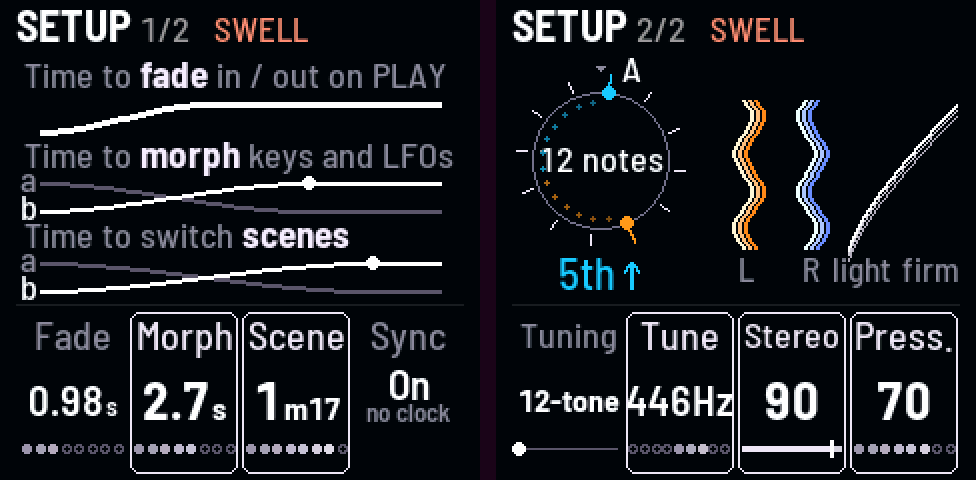
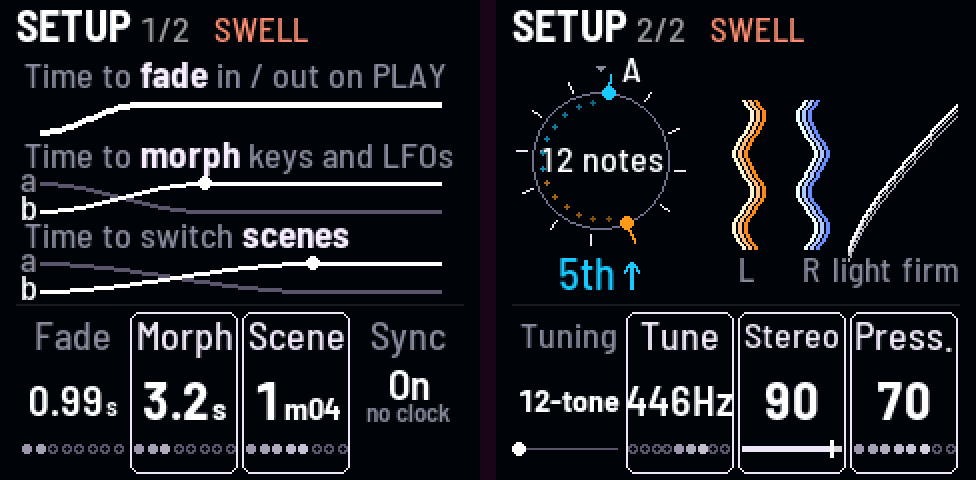
The time knobs on a power curve: Fade x^3, Morph x^2.5, Scene time x^4, 1 s near a quarter of each (Evan, 2026-11-07: 40 % of the dial went to under a second); saved times converted, the defaults the same times

diff --git a/host/drone_render.c b/host/drone_render.c
@@ -24,59 +24,59 @@ typedef struct {
 
 static const scene_t SCENES[] = {
     {"01-two-drones", "the two drones (D2 and A2, each with its partner), their filters opening, the fade out",
-     {{0, E_SET, P_FADE, 60}, {0, E_PLAY, 1}, {0, E_RAMP, V1(GP_CUTOFF), 350, 700, 12},
+     {{0, E_SET, P_FADE, 39}, {0, E_PLAY, 1}, {0, E_RAMP, V1(GP_CUTOFF), 350, 700, 12},
       {0, E_RAMP, V2(GP_CUTOFF), 300, 650, 12}, {14, E_PLAY, 0}, {20, E_END}}},
     {"02-partners-off", "the same with both partners off: two plain oscillators and their subs",
-     {{0, E_SET, P_FADE, 60}, {0, E_SET, V1(GP_PARTNER), 0}, {0, E_SET, V2(GP_PARTNER), 0}, {0, E_PLAY, 1},
+     {{0, E_SET, P_FADE, 39}, {0, E_SET, V1(GP_PARTNER), 0}, {0, E_SET, V2(GP_PARTNER), 0}, {0, E_PLAY, 1},
       {0, E_RAMP, V1(GP_CUTOFF), 350, 700, 12}, {0, E_RAMP, V2(GP_CUTOFF), 300, 650, 12}, {14, E_PLAY, 0}, {20, E_END}}},
     {"03-ultra-analog", "the DS-2 patch: drone II an octave up, slightly detuned, slow LFO; then drone I -> drone II cutoff",
-     {{0, E_SET, P_FADE, 60}, {0, E_SET, V2(GP_PITCH), 5012}, {0, E_SET, V2(GP_WAVE), 67},
+     {{0, E_SET, P_FADE, 39}, {0, E_SET, V2(GP_PITCH), 5012}, {0, E_SET, V2(GP_WAVE), 67},
       {0, E_SET, V1(GP_PARTNER), 0}, {0, E_SET, V2(GP_PARTNER), 0}, {0, E_SET, V2(GP_CUTOFF), 380},
       {0, E_SET, V2(GP_RESO), 450}, {0, E_SET, V2(GP_DRIVE), 60}, {0, E_SET, P_LFO_RATE, 15},
       {0, E_SET, V1(GP_FLFO_DEPTH), 40}, {0, E_SET, V2(GP_FLFO_DEPTH), 35}, {0, E_PLAY, 1},
       {8, E_SET, P_XMOD, 1}, {8, E_RAMP, P_XMOD_AMT, 0, 70, 6}, {20, E_PLAY, 0}, {23, E_END}}},
     {"04-hard-sync", "hard sync: drone II synced to drone I, its pitch swept up and back (the classic sync sweep)",
-     {{0, E_SOLO, 1}, {0, E_SET, P_FADE, 30}, {0, E_SET, V2(GP_PARTNER), 0}, {0, E_SET, V2(GP_WAVE), 67},
+     {{0, E_SOLO, 1}, {0, E_SET, P_FADE, 18}, {0, E_SET, V2(GP_PARTNER), 0}, {0, E_SET, V2(GP_WAVE), 67},
       {0, E_SET, V2(GP_MIX), 0}, {0, E_SET, V2(GP_CUTOFF), 800}, {0, E_SET, P_SYNC, 1}, {0, E_PLAY, 1},
       {1, E_RAMP, V2(GP_PITCH), 4500, 6900, 7}, {8, E_RAMP, V2(GP_PITCH), 6900, 4500, 5}, {14, E_PLAY, 0},
       {15, E_END}}},
     {"05-pitch-link", "pitch link: drone II a fifth above drone I, following it as drone I moves",
-     {{0, E_SET, P_FADE, 40}, {0, E_SET, V2(GP_PITCH), 4500}, {0, E_SET, P_PLINK_OFF, 700}, {0, E_SET, P_PLINK, 1},
+     {{0, E_SET, P_FADE, 24}, {0, E_SET, V2(GP_PITCH), 4500}, {0, E_SET, P_PLINK_OFF, 700}, {0, E_SET, P_PLINK, 1},
       {0, E_PLAY, 1}, {3, E_RAMP, V1(GP_PITCH), 3800, 4300, 5}, {10, E_RAMP, V1(GP_PITCH), 4300, 3600, 4},
       {16, E_PLAY, 0}, {18, E_END}}},
     {"06-resonance", "drone I alone, resonance near the top: low-pass swept up and down, then high-pass",
-     {{0, E_SOLO, 0}, {0, E_SET, P_FADE, 30}, {0, E_SET, V1(GP_PARTNER), 0}, {0, E_SET, V1(GP_RESO), 950},
+     {{0, E_SOLO, 0}, {0, E_SET, P_FADE, 18}, {0, E_SET, V1(GP_PARTNER), 0}, {0, E_SET, V1(GP_RESO), 950},
       {0, E_SET, V1(GP_DRIVE), 50}, {0, E_PLAY, 1}, {0, E_RAMP, V1(GP_CUTOFF), 100, 900, 7},
       {7, E_RAMP, V1(GP_CUTOFF), 900, 100, 7}, {14, E_SET, V1(GP_MODE), DR_HP},
       {14, E_RAMP, V1(GP_CUTOFF), 100, 800, 5}, {19, E_PLAY, 0}, {21, E_END}}},
     {"07-self-oscillation", "drone I alone, resonance at the top, low cutoff: the filter sings its own tone",
-     {{0, E_SOLO, 0}, {0, E_SET, P_FADE, 30}, {0, E_SET, V1(GP_PARTNER), 0}, {0, E_SET, V1(GP_RESO), 1000},
+     {{0, E_SOLO, 0}, {0, E_SET, P_FADE, 18}, {0, E_SET, V1(GP_PARTNER), 0}, {0, E_SET, V1(GP_RESO), 1000},
       {0, E_SET, V1(GP_WAVE), 33}, {0, E_SET, V1(GP_MIX), 0}, {0, E_SET, V1(GP_DRIVE), 0}, {0, E_PLAY, 1},
       {0, E_RAMP, V1(GP_CUTOFF), 450, 750, 10}, {10, E_PLAY, 0}, {12, E_END}}},
     {"08-pulse-and-sub", "drone I alone: a square whose width is swept by hand, OSC MIX half way to the sub-sub",
-     {{0, E_SOLO, 0}, {0, E_SET, P_FADE, 30}, {0, E_SET, V1(GP_PARTNER), 0}, {0, E_SET, V1(GP_WAVE), 100},
+     {{0, E_SOLO, 0}, {0, E_SET, P_FADE, 18}, {0, E_SET, V1(GP_PARTNER), 0}, {0, E_SET, V1(GP_WAVE), 100},
       {0, E_SET, V1(GP_MIX), 50}, {0, E_SET, V1(GP_SUBOCT), 2}, {0, E_SET, V1(GP_CUTOFF), 650}, {0, E_PLAY, 1},
       {0, E_RAMP, V1(GP_WIDTH), 0, 95, 6}, {6, E_RAMP, V1(GP_WIDTH), 95, 0, 6}, {12, E_PLAY, 0}, {14, E_END}}},
     {"09-x-wave", "drone I alone, filter open: the X-WAVE swept by hand, sine -> triangle -> saw -> square and back",
-     {{0, E_SOLO, 0}, {0, E_SET, P_FADE, 20}, {0, E_SET, V1(GP_PARTNER), 0}, {0, E_SET, V1(GP_MIX), 0},
+     {{0, E_SOLO, 0}, {0, E_SET, P_FADE, 14}, {0, E_SET, V1(GP_PARTNER), 0}, {0, E_SET, V1(GP_MIX), 0},
       {0, E_SET, V1(GP_CUTOFF), 850}, {0, E_SET, V1(GP_RESO), 0}, {0, E_SET, V1(GP_PITCH), 4500},
       {0, E_SET, V1(GP_WAVE), 0}, {0, E_PLAY, 1}, {1, E_RAMP, V1(GP_WAVE), 0, 100, 8},
       {9, E_RAMP, V1(GP_WAVE), 100, 0, 4}, {13, E_PLAY, 0}, {14, E_END}}},
     {"10-between-notes", "drone II held on A2, drone I swept slowly from A2 to E3, through every cent",
-     {{0, E_SET, P_FADE, 40}, {0, E_SET, V1(GP_PITCH), 4500}, {0, E_SET, V2(GP_PITCH), 4500},
+     {{0, E_SET, P_FADE, 24}, {0, E_SET, V1(GP_PITCH), 4500}, {0, E_SET, V2(GP_PITCH), 4500},
       {0, E_SET, V2(GP_PARTNER), 0}, {0, E_PLAY, 1}, {2, E_RAMP, V1(GP_PITCH), 4500, 5200, 12},
       {16, E_PLAY, 0}, {18, E_END}}},
     {"11-lfo-filters", "both drones breathing: the filter LFOs at a slow rate (~9 s), I and II a quarter apart",
-     {{0, E_SET, P_FADE, 60}, {0, E_SET, P_LFO_RATE, 10}, {0, E_SET, V1(GP_FLFO_DEPTH), 60},
+     {{0, E_SET, P_FADE, 39}, {0, E_SET, P_LFO_RATE, 10}, {0, E_SET, V1(GP_FLFO_DEPTH), 60},
       {0, E_SET, V2(GP_FLFO_DEPTH), -55}, {0, E_SET, V1(GP_RESO), 500}, {0, E_SET, V2(GP_RESO), 500},
       {0, E_PLAY, 1}, {24, E_PLAY, 0}, {27, E_END}}},
     {"12-lfo-x-wave", "drone I alone, its LFO moving the X-WAVE: Wave I triangle, then the 2x exponential",
-     {{0, E_SOLO, 0}, {0, E_SET, P_FADE, 30}, {0, E_SET, V1(GP_PARTNER), 0}, {0, E_SET, V1(GP_MIX), 0},
+     {{0, E_SOLO, 0}, {0, E_SET, P_FADE, 18}, {0, E_SET, V1(GP_PARTNER), 0}, {0, E_SET, V1(GP_MIX), 0},
       {0, E_SET, V1(GP_CUTOFF), 800}, {0, E_SET, V1(GP_WAVE), 50}, {0, E_SET, P_LFO_RATE, 35},
       {0, E_SET, V1(GP_OLFO_DEST), DR_TO_XWAVE}, {0, E_SET, V1(GP_OLFO_DEPTH), 70}, {0, E_PLAY, 1},
       {8, E_SET, P_LFO_W1, 6}, {14, E_PLAY, 0}, {15, E_END}}},
     {"13-lfo-shapes", "drone I alone, its filter on the LFO at ~2 Hz: Wave I's seven shapes, then Wave II's, 2.5 s each",
-     {{0, E_SOLO, 0}, {0, E_SET, P_FADE, 20}, {0, E_SET, V1(GP_PARTNER), 0}, {0, E_SET, V1(GP_RESO), 600},
+     {{0, E_SOLO, 0}, {0, E_SET, P_FADE, 14}, {0, E_SET, V1(GP_PARTNER), 0}, {0, E_SET, V1(GP_RESO), 600},
       {0, E_SET, V1(GP_CUTOFF), 400}, {0, E_SET, V1(GP_FLFO_DEPTH), 70}, {0, E_SET, P_LFO_RATE, 55},
       {0, E_PLAY, 1}, {2.5f, E_SET, P_LFO_W1, 2}, {5, E_SET, P_LFO_W1, 3}, {7.5f, E_SET, P_LFO_W1, 4},
       {10, E_SET, P_LFO_W1, 5}, {12.5f, E_SET, P_LFO_W1, 6}, {15, E_SET, P_LFO_W1, 7},
@@ -84,32 +84,32 @@ static const scene_t SCENES[] = {
       {25, E_SET, P_LFO_W2, 4}, {27.5f, E_SET, P_LFO_W2, 5}, {30, E_SET, P_LFO_W2, 6}, {32.5f, E_SET, P_LFO_W2, 7},
       {35, E_PLAY, 0}, {36, E_END}}},
     {"14-pulse", "the pulse on both drones at 2 a second: a smooth swell, then a hard gate, then swing",
-     {{0, E_SET, P_FADE, 30}, {0, E_SET, P_PULSE, 1}, {0, E_SET, P_PULSE_RATE, 50}, {0, E_SET, P_PULSE_SHAPE, 0},
+     {{0, E_SET, P_FADE, 18}, {0, E_SET, P_PULSE, 1}, {0, E_SET, P_PULSE_RATE, 50}, {0, E_SET, P_PULSE_SHAPE, 0},
       {0, E_PLAY, 1}, {6, E_RAMP, P_PULSE_SHAPE, 0, -100, 4}, {12, E_RAMP, P_PULSE_SWING, 0, 40, 3},
       {18, E_PLAY, 0}, {19, E_END}}},
     {"15-delay", "the delay: dark repeats under the pulse, then the LFO warbling its time, then Repeats up to runaway",
-     {{0, E_SET, P_FADE, 30}, {0, E_SET, P_REV_MIX, 15}, {0, E_SET, P_DLY_MIX, 45}, {0, E_SET, P_DLY_TIME, 55},
+     {{0, E_SET, P_FADE, 18}, {0, E_SET, P_REV_MIX, 15}, {0, E_SET, P_DLY_MIX, 45}, {0, E_SET, P_DLY_TIME, 55},
       {0, E_SET, P_DLY_REPEATS, 55}, {0, E_SET, P_PULSE, 1}, {0, E_SET, P_PULSE_RATE, 35}, {0, E_PLAY, 1},
       {8, E_SET, P_LFO_RATE, 40}, {8, E_SET, P_DLY_LFO_DEPTH, 70}, {16, E_SET, P_DLY_LFO_DEPTH, 0},
       {16, E_RAMP, P_DLY_REPEATS, 55, 100, 6}, {24, E_RAMP, P_DLY_TIME, 55, 20, 4}, {28, E_PLAY, 0},
       {28, E_SET, P_DLY_REPEATS, 40}, {32, E_END}}},
     {"16-reverb-types", "the reverb's four types on the pulsing drones, 6 s each: room, plate, hall, chorus hall",
-     {{0, E_SET, P_FADE, 20}, {0, E_SET, P_REV_MIX, 55}, {0, E_SET, P_REV_TYPE, 0}, {0, E_SET, P_PULSE, 1},
+     {{0, E_SET, P_FADE, 14}, {0, E_SET, P_REV_MIX, 55}, {0, E_SET, P_REV_TYPE, 0}, {0, E_SET, P_PULSE, 1},
       {0, E_SET, P_PULSE_RATE, 20}, {0, E_SET, P_PULSE_SHAPE, -100}, {0, E_PLAY, 1}, {6, E_SET, P_REV_TYPE, 1},
       {12, E_SET, P_REV_TYPE, 2}, {18, E_SET, P_REV_TYPE, 3}, {24, E_PLAY, 0}, {28, E_END}}},
     {"17-noise-colours", "the drones as they start, drone I's noise at the top (-6 dB) beside its tones: white, then "
      "pink, white, pink (the switch crossfading over the Morph)",
-     {{0, E_SET, P_FADE, 20}, {0, E_SET, V1(GP_NOISE), 100}, {0, E_SET, V1(GP_NCOLOR), 0}, {0, E_PLAY, 1},
+     {{0, E_SET, P_FADE, 14}, {0, E_SET, V1(GP_NOISE), 100}, {0, E_SET, V1(GP_NCOLOR), 0}, {0, E_PLAY, 1},
       {6, E_SET, V1(GP_NCOLOR), 100}, {11, E_SET, V1(GP_NCOLOR), 0}, {16, E_SET, V1(GP_NCOLOR), 100}, {21, E_PLAY, 0},
       {23, E_END}}},
     {"18-noise-level", "the drones as they start, both drones' noise (pink) brought up slowly from none to the top, "
      "then back down to 50",
-     {{0, E_SET, P_FADE, 20}, {0, E_PLAY, 1}, {3, E_RAMP, V1(GP_NOISE), 0, 100, 10},
+     {{0, E_SET, P_FADE, 14}, {0, E_PLAY, 1}, {3, E_RAMP, V1(GP_NOISE), 0, 100, 10},
       {3, E_RAMP, V2(GP_NOISE), 0, 100, 10}, {16, E_RAMP, V1(GP_NOISE), 100, 50, 6},
       {16, E_RAMP, V2(GP_NOISE), 100, 50, 6}, {28, E_PLAY, 0}, {31, E_END}}},
     {"19-noise-resonance", "drone I alone, its noise at 80 (pink), resonance near the top: the cutoff swept slowly, "
      "the filter's ring catching the noise",
-     {{0, E_SOLO, 0}, {0, E_SET, P_FADE, 30}, {0, E_SET, V1(GP_NOISE), 80}, {0, E_SET, V1(GP_RESO), 930},
+     {{0, E_SOLO, 0}, {0, E_SET, P_FADE, 18}, {0, E_SET, V1(GP_NOISE), 80}, {0, E_SET, V1(GP_RESO), 930},
       {0, E_SET, V1(GP_FLFO_DEPTH), 0}, {0, E_SET, V1(GP_CUTOFF), 400}, {0, E_PLAY, 1},
       {1, E_RAMP, V1(GP_CUTOFF), 400, 800, 7}, {8, E_RAMP, V1(GP_CUTOFF), 800, 450, 7}, {16, E_PLAY, 0},
       {19, E_END}}},

diff --git a/firmware/src/dsp/drone.c b/firmware/src/dsp/drone.c
@@ -42,13 +42,13 @@ static const dr_param_t PARAMS[DR_NPARAMS] = {
     VOICE_PARAMS(5700, 33, DR_IV_UNISON + 9, 15, 680, 61, DR_LFO_II, DR_LFO_II, -85),  /* II: A3, triangle, partner an octave up */
     {"Cross-mod", 0, DR_XMOD_OUT, 0}, {"X-mod amt", 0, 100, 40}, {"Hard sync", 0, 1, 0}, {"Pitch link", 0, 1, 0},
     {"Link ofs", -2400, 2400, 700}, {"LFO rate", 0, 100, 8}, {"Wave I", 0, DR_LFO_NSHAPES - 1, 1},
-    {"Wave II", 0, DR_LFO_NSHAPES - 1, 8}, {"Pitch glide", 0, 100, 0}, {"Fade", 0, 100, 42}, {"Drift", 0, 100, 30},
+    {"Wave II", 0, DR_LFO_NSHAPES - 1, 8}, {"Pitch glide", 0, 100, 0}, {"Fade", 0, 100, 25}, {"Drift", 0, 100, 30},
     {"Stereo", 0, 100, 60}, {"Tune", -130, 130, 0},
     {"Pulse", 0, 1, 1}, {"Rate", 0, 100, 6}, {"Depth", 0, 100, 40}, {"Shape", -100, 100, -25}, {"Swing", 0, 50, 0},
     {"Time", 0, DR_DLY_TMAX, 50}, {"Repeats", 0, 100, 50}, {"Dly mix", 0, 100, 25}, {"Rev mix", 0, 100, 35},
     {"Type", 0, DR_NREV - 1, 2}, {"Dly LFO", DR_LFO_I, DR_LFO_BOTH, DR_LFO_I}, {"Delay mod", -100, 100, 20},
     {"LFO lock", 0, 1, 0}, {"Speed mod", -100, 100, 0}, {"Source", DR_LFO_I, DR_LFO_BOTH, DR_LFO_II},
-    {"Morph", 0, 100, 47}, {"Scene time", 0, 100, 63}, {"II out", 0, 1, 0}, {"Speaker", 0, 100, 0},
+    {"Morph", 0, 100, 21}, {"Scene time", 0, 100, 48}, {"II out", 0, 1, 0}, {"Speaker", 0, 100, 0},
     {"Pitch lock", 0, 1, 1}, {"Movement", 0, 100, 50}, {"Feedback", 0, 100, 0}, {"Character", 0, 100, 0},
     {"Wander", 0, 100, 0}, {"Age", 0, 100, 0}, {"Shift move", 0, 2 * DR_SHIFT_MID, 2 * DR_SHIFT_MID}, {"Scale", 0, DR_NWSCALE - 1, 0},
     {"D5 depth", 0, 100, 70}, {"E5 depth", 0, 100, 100}, {"F5 depth", 0, 100, 100}, {"G5 depth", 0, 100, 70},
@@ -468,8 +468,7 @@ void dr_param_text(int i, int v, char *b)
         copy_s(b, TAP[(unsigned)v < 4u ? v : 1]);
     else if (i == P_MORPH || i == P_FADE || i == P_SCENE_T) {
         /* a time: "0.62s", "4.2s", "25s", "2m30" */
-        float t = i == P_MORPH ? 0.02f * fm_exp2f((float)v * 0.105507f)
-                : i == P_FADE ? 0.05f * fm_exp2f((float)v * 0.102288f) : 0.1f * fm_exp2f((float)v * 0.115507f);
+        float t = dr_time_s(i, v);
         secs_text(t, b);
     } else if (i == P_GLIDE) {                     /* "Off", "2.5s": 0 .. 10 s, quadratic (QA 2026-10-20: it showed "50") */
         if (!v)
@@ -741,7 +740,7 @@ static float rnd(void)                            /* -1..1 */
 
 static float fade_rate(void)                      /* per sample: 0.05 s * 1200^(v/100) for a full fade */
 {
-    float s = 0.05f * fm_exp2f((float)par[P_FADE] * 0.102288f);
+    float s = dr_time_s(P_FADE, par[P_FADE]);
     return 1.0f / (s * DR_SR);
 }
 
@@ -1648,7 +1647,7 @@ static inline float xosc(int wi, float wf, float ph, float dt, float pw)
  * The filter mode crossfades, the partner and cross-mod fade, the pulse deepens or eases out, an LFO route
  * crossfades from its old wave to its new one, a destination from one to the other; the sub's octave and
  * hard sync, which can't blend, dip out and come back changed. Stopped, all of it is where it's set. */
-static float morph_s(void) { return 0.02f * fm_exp2f((float)par[P_MORPH] * 0.105507f); }    /* 30 s at 100 */
+static float morph_s(void) { return dr_time_s(P_MORPH, par[P_MORPH]); }    /* 30 s at 100 */
 static inline float toward(float x, float t, float step)
 {
     return x < t ? fm_minf(x + step, t) : fm_maxf(x - step, t);
@@ -2262,6 +2261,18 @@ static float pulse_gain(float ph, float depth, float shape, float b1, float hz)
     }
     o = fm_clampf(0.5f * fm_sinf(FM_TWO_PI * f) / (1.0f + 0.98f * shape) + 0.5f, 0.0f, 1.0f);
     return 1.0f - depth * (1.0f - o);
+}
+/* THE TIME KNOBS (Setup 1): a power of the dial over each one's range, so most of it is for slow changes, a drone's
+ * (Evan, 2026-11-07: an exponential curve gave 40 % of it to under a second): Fade 0.05 .. 60 s (a cube), Morph 0.02
+ * .. 30 s (x^2.5), Scene time 0.1 s .. 5 min (x^4), 1 s near 25 on each. Saved ones converted (PROJ_FORMAT 41) */
+float dr_time_s(int p, int v)
+{
+    const float x = fm_clampf((float)v * 0.01f, 0.0f, 1.0f), x2 = x * x;
+    if (p == P_FADE)
+        return 0.05f + 59.95f * x2 * x;
+    if (p == P_MORPH)
+        return 0.02f + 29.98f * x2 * fm_sqrtf(x);
+    return 0.1f + 299.9f * x2 * x2;
 }
 float dr_pulse_wave(float ph)
 {

diff --git a/firmware/src/dsp/drone.h b/firmware/src/dsp/drone.h
@@ -80,7 +80,7 @@ enum {
     P_LFO_W2,                       /* Wave II: 0 off, 1..10 (DR_LFO_W2_NAME) (a switch) */
     P_GLIDE,                        /* 0..100 = 0 .. 10 s to reach a new pitch (quadratic); 0 by default: a pitch
                                      * knob answers at once */
-    P_FADE,                         /* 0..100 = 0.05 .. 60 s, the PLAY fade and the drone fades */
+    P_FADE,                         /* 0..100 = 0.05 .. 60 s (a cube: 1 s at 25), the PLAY fade and the drone fades */
     P_DRIFT,                        /* 0..100: DRIFT, the drones never quite still: pitch (+-8 cents), and slow
                                      * random wanders of each drone's cutoff, X-WAVE, level and detune */
     P_WIDTH,                        /* stereo: 0 mono .. 100 drone I left, drone II right */
@@ -105,10 +105,10 @@ enum {
                                      * runs free (0) (a switch) */
     P_LFO_RMOD,                     /* -100..100: the LFO's own wave moving its rate, up to +-3 octaves (linear); 0 none */
     P_LFO_RMOD_SRC,                 /* which wave moves it: DR_LFO_I, _II, _BOTH */
-    P_MORPH,                        /* 0..100 = 0.02 .. 30 s: how long a switch (a button or key) takes to move
+    P_MORPH,                        /* 0..100 = 0.02 .. 30 s (x^2.5: 1 s at 25): how long a switch (a button or key) takes to move
                                      * the sound to its new setting: OCT, filter mode, pulse, partner, sub, the
                                      * links, the LFO routes */
-    P_SCENE_T,                      /* 0..100 = 0.1 s .. 5 min: a scene's morph (the white keys) */
+    P_SCENE_T,                      /* 0..100 = 0.1 s .. 5 min (x^4: 1 s at 23): a scene's morph (the white keys) */
     P_II_OUT,                       /* drone II faded out on its own (1; SEL + PLAY), a sound's (P12 Clean: one
                                      * oscillator); was Tuning until 30, 0 since */
     P_SPEAKER,                      /* 0..100: a low cut for a small speaker, 0 off (headphones) .. 240 Hz */
@@ -281,6 +281,8 @@ float dr_lfo_wave(int tap, int shape, float ph);   /* a tap's shape (1..10; 0 of
                                                     * random, ph 0..1 the last cycle, 1..2 this one */
 float dr_lfo_rmod_k(float rm, int src, int w1, int w2);  /* rate mod's speed scale (the screen's picture) */
 float dr_pulse_wave(float ph);                 /* the pulse's gain at ph (0..2) as set now, 0..1 */
+float dr_time_s(int p, int v);                 /* Fade, Morph, Scene time at v, seconds (v0.3: a power curve, 1 s
+                                                * near a quarter of the dial; Evan, 2026-11-07) */
 float dr_pulse_hz(int v);                      /* breaths a second at Rate v, or now (-1: the Rate, or the clock's) */
 /* Age and Character at full (Evan, 2026-11-02: "stronger"; the pictures on Life read them too) */
 #define AGE_CUT -250                    /* Age: the cutoff, of its 1000, about 2.5 octaves darker (was -70) */

diff --git a/tests/host/drone_test.c b/tests/host/drone_test.c
@@ -410,7 +410,7 @@ int main(void)
         check("2x Exp rises twice a cycle, 4x Exp four times", ups[0] == 2 && ups[1] == 4);
         dr_set(P_LFO_RATE, 45);
         dr_set(P_LFO_W1, 1);
-        dr_set(P_MORPH, 47);                        /* 0.6 s, the default */
+        dr_set(P_MORPH, 21);                        /* 0.6 s, the default */
         run(secs(1.0f));
         last = dr_lfo[0];
         dr_set(P_LFO_W1, 5);                        /* Triangle to 2x Tri */
@@ -1181,7 +1181,7 @@ int main(void)
         dr_set(DR_GP(0, GP_PITCH), 3300);                /* 55 Hz */
         dr_set(DR_GP(0, GP_CUTOFF), 500);
         run(secs(0.3f));                                 /* the setup settled (at Morph 0) */
-        dr_set(P_MORPH, 64);                             /* 0.02 x 2^6.75 = 2.15 s */
+        dr_set(P_MORPH, 35);                             /* 0.02 + 29.98 x 0.35^2.5 = 2.19 s */
         run(secs(0.7f));
         capture(w, 4410, 0);
         lo0 = tone_level(w, 4410, 55.0f);
@@ -1203,7 +1203,7 @@ int main(void)
         lo_fast = tone_level(w, 4410, 55.0f);
         check("morph 0: a switch is done in ~20 ms", lo_fast > 0.9f * lo0);
         /* the pulse, switched on with Morph 2.1 s: deepens over it (depth 100: closed at the end) */
-        dr_set(P_MORPH, 64);
+        dr_set(P_MORPH, 35);
         dr_set(P_PULSE_RATE, 67);                       /* 2 a second (the default is slower now) */
         dr_set(P_PULSE_DEPTH, 100);
         dr_set(P_PULSE_SHAPE, -100);
@@ -1237,7 +1237,7 @@ int main(void)
         dr_set(DR_GP(0, GP_MIX), 100);                  /* the sub alone */
         dr_set(DR_GP(0, GP_CUTOFF), 400);
         run(secs(0.5f));
-        dr_set(P_MORPH, 55);
+        dr_set(P_MORPH, 27);                        /* 1.16 s */
         run(secs(0.5f));
         for (j = 0; j < 160; j++) {
             if (j == 40)

diff --git a/firmware/src/app/ui.c b/firmware/src/app/ui.c
@@ -720,7 +720,7 @@ static void page_up(int b)
     ui.hold_btn = -1;
 }
 
-static float morph_ms(void) { return 20.0f * fm_exp2f((float)proj.par[P_MORPH] * 0.105507f); }
+static float morph_ms(void) { return 1000.0f * dr_time_s(P_MORPH, proj.par[P_MORPH]); }
 
 /* OCT- / OCT+: the LFO's two waves (v0.2): a tap is the next shape, round and round (Off, the seven, random,
  * AND, OR);
@@ -1036,7 +1036,7 @@ static void scene_store(int n)                         /* SAVE held + a white ke
     save_ask(n);
 }
 
-static float fade_s(void) { return 0.05f * fm_exp2f((float)proj.par[P_FADE] * 0.102288f); }
+static float fade_s(void) { return dr_time_s(P_FADE, proj.par[P_FADE]); }
 static float clk_bar_frac(void);
 /* the Scene time, s. On a MIDI clock (v0.3): its bars (P_SCENE_BARS), ending on a bar line: the rest of this bar and
  * the bars after it (less than half a bar left of this one: a bar more) */
@@ -1049,7 +1049,7 @@ static float scene_s(void)
             bars += 1.0f;
         return bars * 4.0f * dr_ext_spb * (1.0f / DR_SR);
     }
-    return 0.1f * fm_exp2f((float)proj.par[P_SCENE_T] * 0.115507f);
+    return dr_time_s(P_SCENE_T, proj.par[P_SCENE_T]);
 }
 
 #define VISIT_BACK NSCENES                     /* the morph's target: ui.visit_back (a visit's way back, an undo) */

diff --git a/firmware/src/app/project.c b/firmware/src/app/project.c
@@ -277,6 +277,17 @@ static void convert(int16_t *v, uint32_t from)
                                                  * now, the nearest */
         const float d = 4400.0f * fm_exp2f((float)v[P_TUNE] * (1.0f / 1200.0f)) - 4400.0f;
         v[P_TUNE] = (int16_t)fm_clampf(d + (d < 0.0f ? -0.5f : 0.5f), -130.0f, 130.0f);
+        {   /* the time knobs a power curve now (Evan, 2026-11-07): the same time, the nearest step */
+            static const uint8_t TP[3] = {P_FADE, P_MORPH, P_SCENE_T};
+            static const float MN[3] = {0.05f, 0.02f, 0.1f}, K[3] = {0.102288f, 0.105507f, 0.115507f},
+                               E[3] = {1.0f / 3.0f, 0.4f, 0.25f};
+            int j;
+            for (j = 0; j < 3; j++) {
+                const float t = MN[j] * fm_exp2f((float)v[TP[j]] * K[j]), lo = dr_time_s(TP[j], 0),
+                            hi = dr_time_s(TP[j], 100), y = (t - lo) / (hi - lo);
+                v[TP[j]] = (int16_t)fm_clampf(y > 0.0f ? 100.0f * fm_exp2f(fm_log2f(y) * E[j]) + 0.5f : 0.0f, 0.0f, 100.0f);
+            }
+        }
     }
 }
 

diff --git a/firmware/src/dsp/drone_fx.c b/firmware/src/dsp/drone_fx.c
@@ -300,7 +300,7 @@ static void rv_coefs(float ease)
     int inf = rt <= 0.0f;
     uint32_t i;
     if (inf && fade_target <= 0.0f) {   /* stopped or stopping: a freeze lets go, over about twice the Fade */
-        fsec = fm_maxf(2.0f * 0.05f * fm_exp2f((float)par[P_FADE] * 0.102288f), 1.5f);
+        fsec = fm_maxf(2.0f * dr_time_s(P_FADE, par[P_FADE]), 1.5f);
         rt = fsec;
         inf = 0;
     }

diff --git a/docs/decisions.md b/docs/decisions.md
@@ -612,3 +612,8 @@ at the end. The current state is in the [README](../README.md) and the code.
   most 0.2 cents off: -32 cents is 431.9 Hz). PROJ_FORMAT 41 (39-40's 111 values widened). Meters: Tuning a marker on
   a track, Tune a dot row from the middle, Stereo a slider; Sync none, its line says it. A long Tuning's name steps
   down to 15 ("Harrison") or 12 ("Harmonics", a new 12 px font) to fit 52 px; A and the 1/1 a little off the ring.
+- 2026-11-07: the time knobs (Setup 1) on a power curve (Evan: an exponential one gave 40 % of the dial to under a
+  second; a drone is about slow changes): Fade 0.05 + 59.95 x^3 s, Morph 0.02 + 29.98 x^2.5 s, Scene time 0.1 + 299.9
+  x^4 s (`dr_time_s`), 1 s near a quarter on each (25, 25, 23 %), the ranges kept. Saved ones converted to the same
+  time (PROJ_FORMAT 41); the defaults 25, 21, 48 (0.99 s, 0.63 s, 16 s; were 42, 47, 63). The starting passage
+  measured on main and G: the fade in to -3 dB 1.70 s on both, the loudness 0.09 dB apart on average.

diff --git a/README.md b/README.md
@@ -451,6 +451,7 @@ pink specks are as many as Color says.
 
 Everything on GLO belongs to the FM-1 and the room, not to a sound: scenes don't change it.
 
+- Each knob gives most of its turn to slow times, a second about a quarter of the way.
 - **Fade** is how long PLAY takes (up to 60 s); **Morph** is how long a black key or a new LFO wave (OCT) takes
   to move the sound to its new setting (0.02–30 s); **Scene time** is how long every scene move takes: a tap, a
   crossfade pressed all the way in at once, and the way back (0.1 s to 5 minutes; about 15 s to start). The picture
